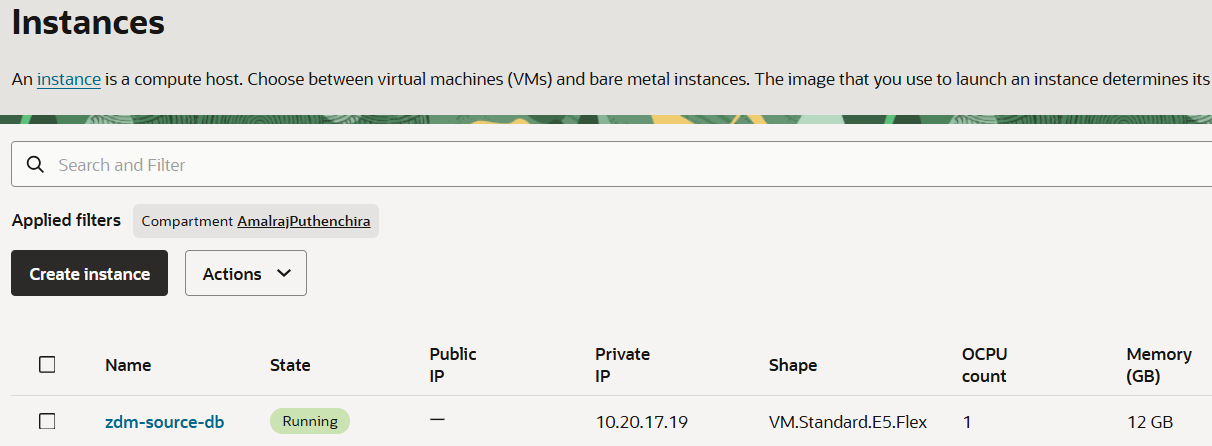
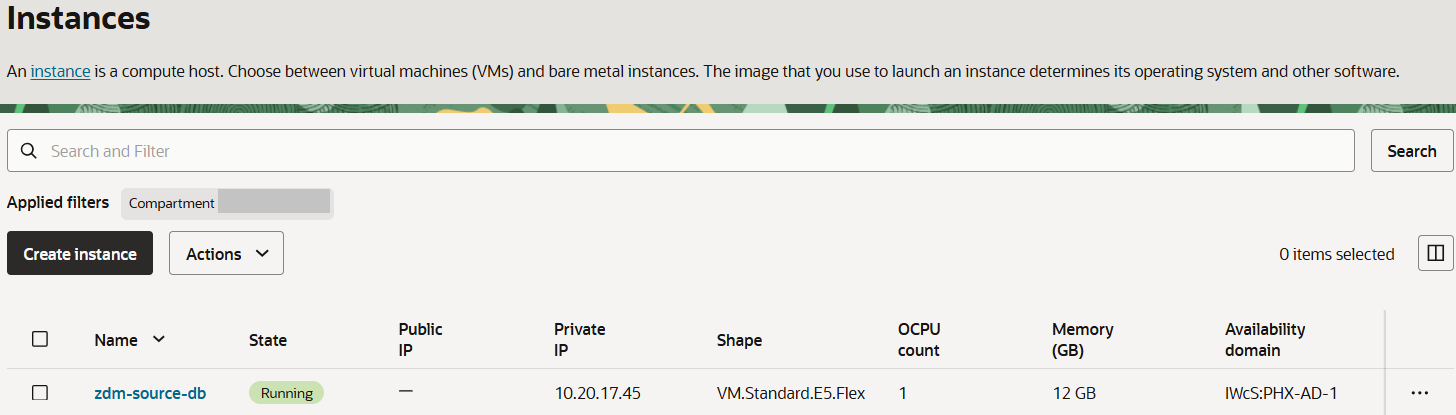
commit

diff --git a/zdm-physical-online-direct-data-transfer/prepare-source-db/prepare-source-db.md b/zdm-physical-online-direct-data-transfer/prepare-source-db/prepare-source-db.md
@@ -415,17 +415,19 @@ In this lab
 
    Login to source database server.
 
-   Execute below command as **opc** user to remove restriction on iptables after replacing the **Target Database subnet CIDR block** which is same as Public Subnet CIDR for this Lab.
+   Execute below command as **opc** user to remove restriction on firewall after replacing the **CIDR of target database subnet** which is same as private subnet CIDR for this Lab.
 
      ```text
      <copy>
-     sudo iptables -I INPUT -p tcp -m state --state NEW -m tcp -s <target database subnet CIDR> --dport 1521 -m comment --comment "Required for access to DB , Do not remove or modify." -j ACCEPT
+      sudo firewall-cmd --permanent --zone=public \
+      --add-rich-rule='rule family="ipv4" source address="<CIDR of target database subnet>" port port="1521" protocol="tcp" accept'
+      sudo firewall-cmd --reload
      </copy>
      ```
          
    Sample output is shown below.
       
-   ![Image showing option to add Ingress rules ](./images/ip-tables-update.png)
+   ![Image showing option to add Ingress rules ](./images/lab5-t1-s9-c-i.png)
 
    ii. Modify Target database server **/etc/hosts** file.
 
@@ -435,15 +437,15 @@ In this lab
    
    **sudo vi /etc/hosts**
 
-   Insert source database private IP and FQDN (collected in Lab 3 task 3 step 2) to /etc/hosts file and save it.
+   Insert source database private IP and FQDN (collected in Lab 2 task 2 step 14) to /etc/hosts file and save it.
 
    Below is sample contents of **/etc/hosts** file after modification.
 
-   ![Image showing option contents of target database etc/hosts file ](./images/target-db-etc-hosts.png)
+   ![Image showing option contents of target database etc/hosts file ](./images/lab5-t1-s9-c-ii.png)
 
    iii. Verify connectivity from target database to source database server.
 
-   Login to target database server using Public IP and ssh key file.
+   Login to target database server using private IP and ssh key file.
 
    Switch user to **oracle** using below command.
 
@@ -455,7 +457,7 @@ In this lab
 
    If the command output shows **OK(x msec)** as shown below , it means connectivity is success on the port 1521 from target database server to source database server.
 
-   ![Image showing output of tnsping from target to source database server ](./images/target-to-source-tnsping.png)
+   ![Image showing output of tnsping from target to source database server ](./images/lab5-t1-s9-c-iii.png)
  
 10. Snapshot controlfile for RAC Database.
 

diff --git a/zdm-physical-online-direct-data-transfer/source-db-provision/source-db-provision.md b/zdm-physical-online-direct-data-transfer/source-db-provision/source-db-provision.md
@@ -208,9 +208,13 @@ In this task you will create a new Virtual Cloud Network , create a private subn
 
      ![Image showing navigation to compute instance](./images/lab2-t2-s14-a.png " ")
 
-     Make a note of the privte IP of the source database compute.
+     Select **zdm-source-db**.
 
-     ![Image showing private IP of  compute instance](./images/lab2-t2-s14-b.png " ")
+     ![Image showing list of compute instances](./images/lab2-t2-s14-b.png " ")
+
+     Navigate to **Networking** and make note of private IP and Internal FQDN
+
+     ![Image showing private IP of  compute instance](./images/lab2-t2-s14-c.png " ")
 
 
 15. Collect the value of SYS password.
